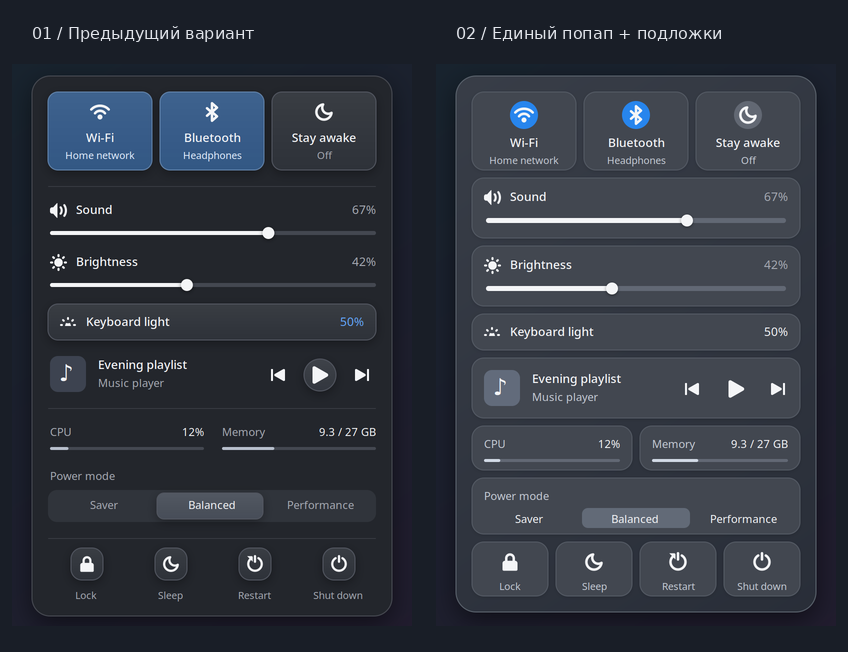
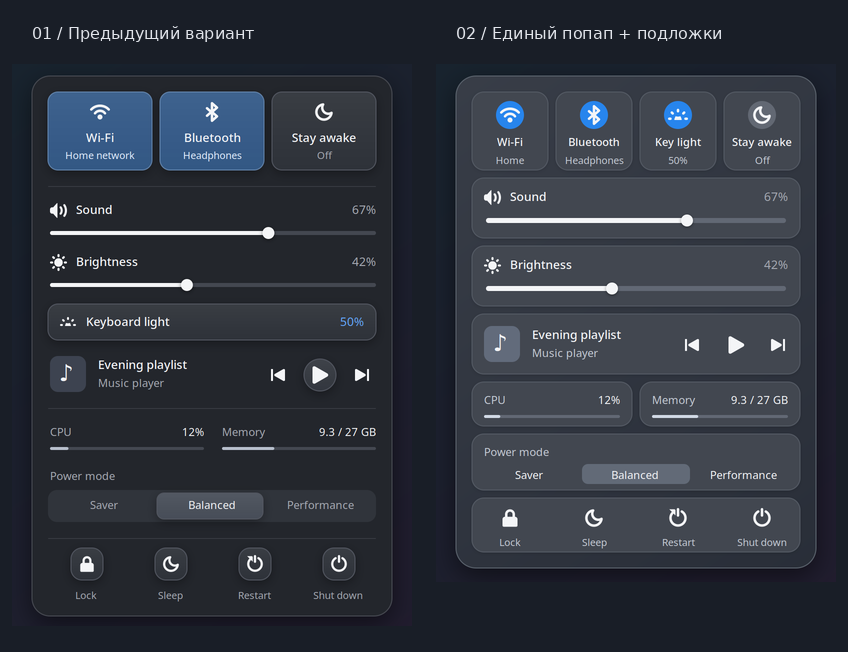
Compact grouped control center with four quick buttons

diff --git a/design/control-center-studies/generate.py b/design/control-center-studies/generate.py
@@ -236,15 +236,15 @@ def grouped_slider(y, glyph, label, value):
 
 def render_grouped():
     global c
-    surface = cairo.ImageSurface(cairo.FORMAT_ARGB32, 440*SCALE, 652*SCALE)
+    surface = cairo.ImageSurface(cairo.FORMAT_ARGB32, 440*SCALE, 608*SCALE)
     c = cairo.Context(surface)
     c.scale(SCALE, SCALE)
-    background = cairo.LinearGradient(0, 0, 440, 652)
+    background = cairo.LinearGradient(0, 0, 440, 608)
     background.add_color_stop_rgb(0, .09, .14, .18)
     background.add_color_stop_rgb(1, .13, .11, .18)
     c.set_source(background)
     c.paint()
-    text("LAYOUT STUDY / 06", 40, 22, 11, MUTED, "Medium")
+    text("LAYOUT STUDY / 07", 40, 22, 11, MUTED, "Medium")
     color(WHITE)
     c.set_line_width(2.4)
     c.set_line_cap(cairo.LINE_CAP_ROUND)
@@ -254,10 +254,10 @@ def render_grouped():
     c.line_to(385.5, 55)
     c.stroke()
 
-    shadow(40, 72, 360, 536, 20, blur=12, offset=8, opacity=.5)
-    rounded_path(c, 40, 72, 360, 536, 20)
+    shadow(40, 72, 360, 492, 20, blur=12, offset=8, opacity=.5)
+    rounded_path(c, 40, 72, 360, 492, 20)
     # Static material approximation; a live popup would sample its blurred backdrop.
-    material = cairo.LinearGradient(40, 72, 400, 608)
+    material = cairo.LinearGradient(40, 72, 400, 564)
     material.add_color_stop_rgb(0, .22, .24, .28)
     material.add_color_stop_rgb(1, .16, .18, .22)
     c.set_source(material)
@@ -267,58 +267,54 @@ def render_grouped():
     c.stroke()
 
     for x, glyph, title, state, on in [
-            (56, "network-wireless", "Wi-Fi", "Home network", True),
-            (168, "bluetooth", "Bluetooth", "Headphones", True),
-            (280, "weather-clear-night", "Stay awake", "Off", False)]:
-        plate(x, 88, 104, 78)
-        box(x+38, 97, 28, 28, 14, "2785ed" if on else "626873")
-        icon(glyph, x+42, 101, 20)
-        text(title, x+8, 130, 12, weight="Medium", width=88,
+            (56, "network-wireless", "Wi-Fi", "Home", True),
+            (140, "bluetooth", "Bluetooth", "Headphones", True),
+            (224, "keyboard-brightness", "Key light", "50%", True),
+            (308, "weather-clear-night", "Stay awake", "Off", False)]:
+        plate(x, 88, 76, 78)
+        box(x+24, 97, 28, 28, 14, "2785ed" if on else "626873")
+        icon(glyph, x+28, 101, 20)
+        text(title, x+6, 130, 11, weight="Medium", width=64,
              align=Pango.Alignment.CENTER)
-        text(state, x+8, 149, 10, "c5cbd5", width=88,
+        text(state, x+6, 149, 10, "c5cbd5", width=64,
              align=Pango.Alignment.CENTER)
 
     grouped_slider(174, "audio-volume-high", "Sound", 67)
     grouped_slider(242, "display-brightness", "Brightness", 42)
 
-    plate(56, 310, 328, 36)
-    icon("keyboard-brightness", 68, 320, 16)
-    text("Keyboard light", 94, 319, 12, weight="Medium")
-    text("50%", 324, 319, 12, WHITE, width=48, align=Pango.Alignment.RIGHT)
-
-    plate(56, 354, 328, 60)
-    box(68, 366, 36, 36, 8, "626b7b")
-    text("♪", 77, 369, 23)
-    text("Evening playlist", 116, 366, 12, weight="Medium", width=140)
-    text("Music player", 116, 385, 11, "c5cbd5", width=140)
-    icon("media-skip-backward", 268, 377, 16)
-    icon("media-playback-start", 310, 375, 20)
-    icon("media-skip-forward", 354, 377, 16)
+    plate(56, 310, 328, 60)
+    box(68, 322, 36, 36, 8, "626b7b")
+    text("♪", 77, 325, 23)
+    text("Evening playlist", 116, 322, 12, weight="Medium", width=140)
+    text("Music player", 116, 341, 11, "c5cbd5", width=140)
+    icon("media-skip-backward", 268, 333, 16)
+    icon("media-playback-start", 310, 331, 20)
+    icon("media-skip-forward", 354, 333, 16)
 
     for x, label, value, percent in [(56, "CPU", "12%", .12),
                                      (224, "Memory", "9.3 / 27 GB", .34)]:
-        plate(x, 422, 160, 44)
-        text(label, x+12, 432, 11, "c5cbd5")
-        text(value, x+58, 432, 11, width=90, align=Pango.Alignment.RIGHT)
-        box(x+12, 455, 136, 3, 1.5, "626874")
-        box(x+12, 455, 136*percent, 3, 1.5, "d1d9e5")
+        plate(x, 378, 160, 44)
+        text(label, x+12, 388, 11, "c5cbd5")
+        text(value, x+58, 388, 11, width=90, align=Pango.Alignment.RIGHT)
+        box(x+12, 411, 136, 3, 1.5, "626874")
+        box(x+12, 411, 136*percent, 3, 1.5, "d1d9e5")
 
-    plate(56, 474, 328, 56)
-    text("Power mode", 68, 484, 11, "c5cbd5")
-    box(166, 504, 108, 20, 6, "626a77")
+    plate(56, 430, 328, 56)
+    text("Power mode", 68, 440, 11, "c5cbd5")
+    box(166, 460, 108, 20, 6, "626a77")
     for x, label in [(60, "Saver"), (166, "Balanced"), (274, "Performance")]:
-        text(label, x, 507, 11, width=106, align=Pango.Alignment.CENTER)
+        text(label, x, 463, 11, width=106, align=Pango.Alignment.CENTER)
 
+    plate(56, 494, 328, 54)
     for x, label, glyph in [(56, "Lock", "system-lock-screen"),
                              (140, "Sleep", "weather-clear-night"),
                              (224, "Restart", "system-reboot"),
                              (308, "Shut down", "system-shutdown")]:
-        plate(x, 538, 76, 54)
-        icon(glyph, x+28, 548, 20)
-        text(label, x+6, 575, 10, "c5cbd5", width=64,
+        icon(glyph, x+28, 504, 20)
+        text(label, x+6, 531, 10, "c5cbd5", width=64,
              align=Pango.Alignment.CENTER)
 
-    text("Illustrative states · material/blur approximation", 40, 629, 10, MUTED)
+    text("Illustrative states · material/blur approximation", 40, 585, 10, MUTED)
     path = HERE / "grouped-panel.png"
     surface.write_to_png(str(path))
     return path
@@ -342,7 +338,8 @@ labels = ImageDraw.Draw(comparison)
 for path, x, label in [(depth, 0, "01 / Предыдущий вариант"),
                        (grouped, 424, "02 / Единый попап + подложки")]:
     labels.text((x+32, 24), label, font=font, fill="#e2e5eb")
-    panel = Image.open(path).convert("RGB").crop((20*SCALE, 60*SCALE, 420*SCALE, 622*SCALE))
-    comparison.paste(panel.resize((400, 562), Image.Resampling.LANCZOS), (x+12, 64))
+    end_y = 578 if path == grouped else 622
+    panel = Image.open(path).convert("RGB").crop((20*SCALE, 60*SCALE, 420*SCALE, end_y*SCALE))
+    comparison.paste(panel.resize((400, end_y-60), Image.Resampling.LANCZOS), (x+12, 64))
 comparison.save(HERE / "grouped-comparison.png")
 print(HERE / "grouped-comparison.png")

diff --git a/design/control-center-studies/README.md b/design/control-center-studies/README.md
@@ -13,21 +13,23 @@ reference is the Sequoia Control Center, illustrated in this
 
 One continuous popup contains a regular grid of individual surfaces. The outer
 padding is 16 px, gaps are 8 px, and inner surfaces share a 12 px corner radius,
-quiet edge and short ambient shadow. Sound, brightness, keyboard light, media,
-each system gauge, power profiles and each session button have their own surface.
+quiet edge and short ambient shadow. Sound, brightness, media, each system gauge
+and power profiles have their own surface. Lock, Sleep, Restart and Shut down are
+four separate actions inside one shared bottom surface.
 No divider lines are needed between those surfaces. The outer popup carries the
 broadest shadow; its gradient is a static material/blur approximation, not a sample
 of a live desktop background.
 
-The current controls and menu icons remain. Wi-Fi, Bluetooth and Stay awake are
-three equal buttons in the top row. The whole button toggles its function; blue
-icon circles show the enabled state, while each tile keeps a neutral background.
+The current controls and menu icons remain. Wi-Fi, Bluetooth, keyboard light and
+Stay awake are four equal buttons in the top row. The keyboard light button sits
+next to Bluetooth and cycles Off / 50% / 100%; its compact caption is "Key light".
+The other buttons toggle their function. Blue icon circles show the enabled state,
+while each tile keeps a neutral background.
 No new navigation or actions are implied.
 
 The panel has no heading or branding. Sound and brightness sit directly below the
-top buttons, followed by a full-width keyboard light button showing its actual
-percentage (50% or 100%, plus Off), retaining the existing click-to-cycle interaction;
-the sample shows 50%. The player sits above CPU/memory, grouping passive system
+top buttons. Keyboard light no longer occupies a separate row; the sample shows
+50%. The player sits above CPU/memory, grouping passive system
 information with the power profiles below the everyday controls.
 
 ## Earlier studies
